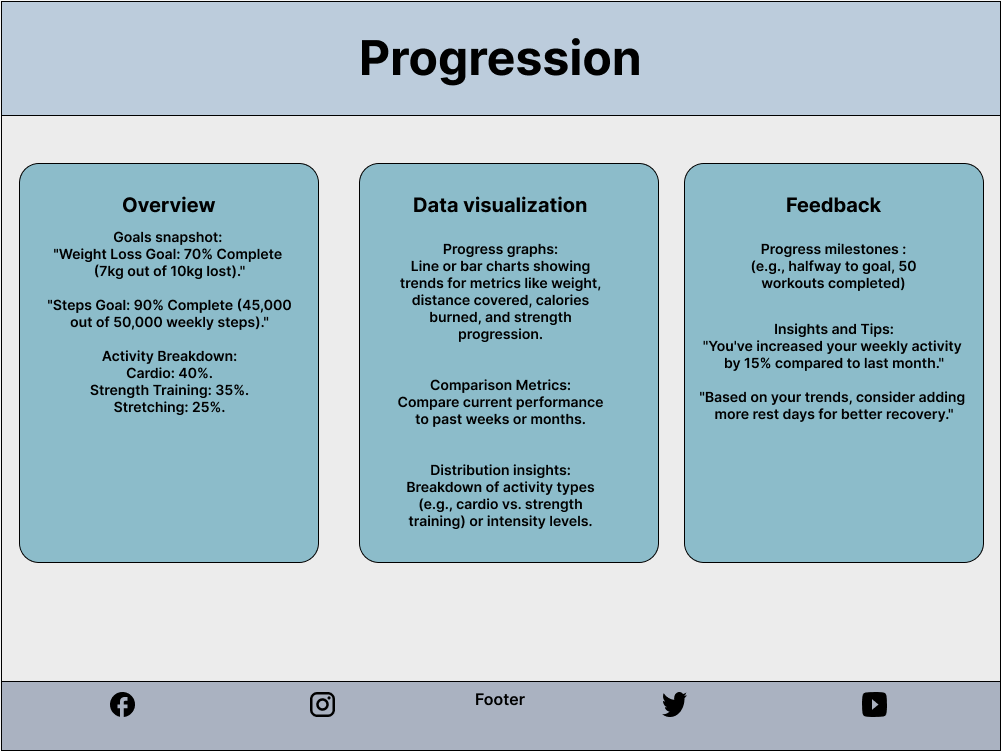
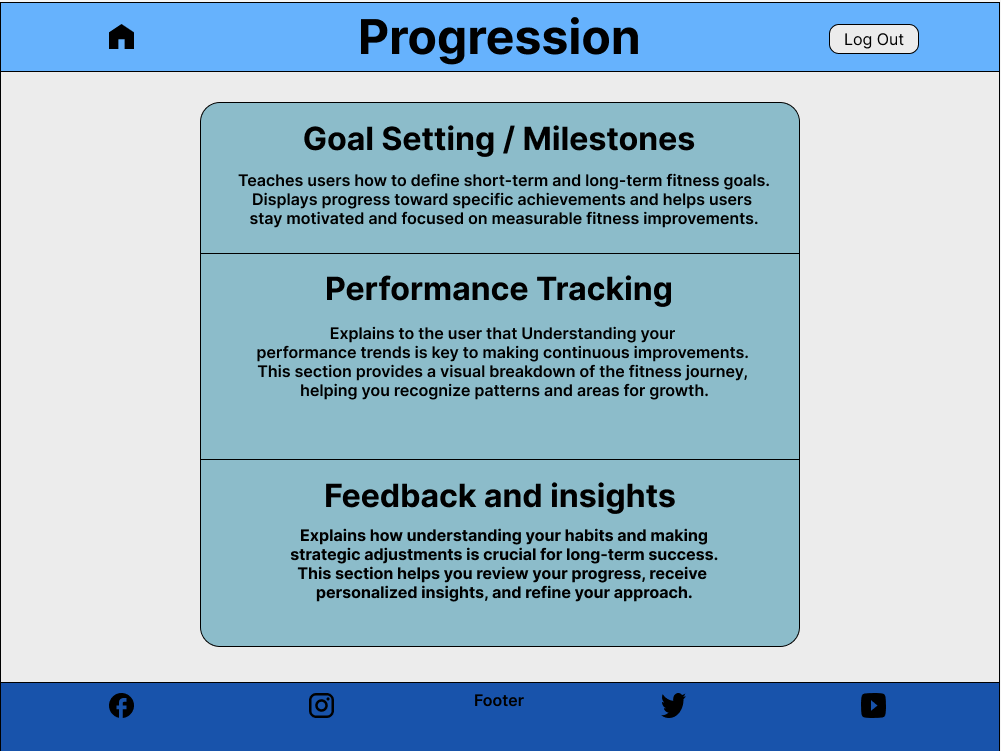
Refactoried Progression UI and documentation:
- Refactored Progression Page layout for
a more structured and intuitive display.

- Consolidated sections into a
streamlined single-page format.

- Replaced previous "Overview,"
"Data Visualization," and "Feedback"
 sections with "Goal Setting / Milestones,"
 "Performance Tracking," and
 "Feedback and Insights."

- Updated wireframes to align with the new design.

- Revised README to reflect the updated page
structure, improving clarity and usability.

- Enhanced descriptions to better educate users
on how to utilize the page effectively.

diff --git a/README.md b/README.md
@@ -468,47 +468,71 @@ The **Activity Page** is a streamlined solution for users who want **clear, orga
 
 ## Progression page
 
-The Progression Page provides users with a detailed and interactive platform to track their fitness journey over time.
-This page focuses on providing meaningful insights and visual representations to help users stay motivated and achieve their fitness goals.
+The **Progression Page** provides users with a structured and intuitive platform to **track their fitness journey** over time. By focusing on **goal setting, performance tracking, and personalized feedback**, this page helps users learn how to stay motivated, recognize progress, and make informed adjustments to their fitness routines.  
 
 ![Progression](<assets/wireframes/progression .png>)
 
-### Features and Sections
+---
 
-#### **1. Overview**
-The Overview section offers a high-level snapshot of the user's current progress, making it easy to stay on track and see the bigger picture.
-- **Goals Snapshot**: Displays progress towards active goals, such as:
-  - *Weight Loss Goal*: "70% Complete (7kg out of 10kg lost)."
-  - *Steps Goal*: "90% Complete (45,000 out of 50,000 weekly steps)."
-- **Activity Breakdown**:
-  - Cardio: 40%.
-  - Strength Training: 35%.
-  - Stretching: 25%.
-- Highlights recent trends and achievements to keep users motivated.
+## **Features and Sections**  
 
-#### **2. Data Visualization**
-This section uses visual tools to display trends and comparisons, helping users analyze their progress effectively.
-- **Progress Graphs**: Line or bar charts illustrating metrics such as:
-  - Weight progression.
-  - Distance covered.
-  - Calories burned.
-  - Strength improvement over time.
-- **Comparison Metrics**: Allows users to compare their performance across different timeframes, such as weekly or monthly trends.
-- **Distribution Insights**: Provides a breakdown of activity types, like cardio versus strength training, to help users adjust their routines for balanced fitness.
+### **1. Goal Setting / Milestones**  
+**Define your fitness goals and stay on track**  
 
-#### **3. Feedback**
-The Feedback section gives users personalized insights and actionable tips based on their performance data.
-- **Progress Milestones**:
-  - Celebrate achievements like "Halfway to goal!" or "50 workouts completed."
-- **Insights and Tips**:
-  - "You've increased your weekly activity by 15% compared to last month."
-  - "Based on your trends, consider adding more rest days for better recovery."
-- Encourages users to reflect on their progress and make informed adjustments to their fitness routines.
+This section helps users how to establish **short-term and long-term fitness goals** while tracking their progress toward meaningful milestones.  
 
-The Progression Page is designed to empower users with a comprehensive view of their fitness journey, 
-combining actionable feedback, visual data, and a clear snapshot of their achievements. 
-By integrating meaningful insights with easy-to-understand visuals, 
-the page keeps users engaged, motivated, and on track to meet their fitness goals.
+- Set **personalized goals** based on your fitness objectives (e.g., weight loss, muscle gain, endurance improvement).  
+- Monitor your **goal completion percentage**, giving you a clear sense of progress.  
+- Celebrate **milestones and achievements**, such as reaching a strength PR, improving running speed, or completing a workout streak.  
+
+📌 **How to Use This Section Effectively:**  
+✔ Clearly define measurable goals (e.g., "Lose 5kg in 3 months" or "Run 10km without stopping").  
+✔ Regularly check your milestone progress to stay motivated.  
+✔ Adjust goals as needed to **continue pushing toward new challenges**.  
+
+---
+
+### **2. Performance Tracking**  
+**Analyze your trends and measure real progress**  
+
+Tracking **performance metrics** over time helps users understand their **strengths, weaknesses, and areas for improvement**.  
+
+- View **progress summaries** that reflect workout consistency, strength development, endurance gains, and more.  
+- Identify **patterns in fitness habits** through structured data representation.  
+- Compare past and present performance to **track improvements** and optimize training.  
+
+📌 **How to Use This Section Effectively:**  
+✔ Regularly review your progress summaries to assess improvements.  
+✔ Use historical performance data to adjust workout intensity and frequency.  
+✔ Identify trends that may indicate the need for recovery or workout variations.  
+
+---
+
+### **3. Feedback and Insights**  
+**Refine your training with meaningful insights**  
+
+This section provides **personalized guidance** based on user activity and progression trends, helping users stay engaged and make strategic adjustments.  
+
+- Gain **data-driven insights** into your progress and performance consistency.  
+- Receive **motivational feedback**, such as reminders to stay consistent, recovery recommendations, or milestone celebrations.  
+- Learn how to **optimize workouts** based on training data, ensuring **continuous improvement**.  
+
+📌 **How to Use This Section Effectively:**  
+✔ Reflect on feedback to make **targeted adjustments** to training plans.  
+✔ Use progress insights to **fine-tune your workout intensity, recovery schedule, and goal-setting approach**.  
+✔ Stay motivated by celebrating milestones and acknowledging improvements in strength, endurance, and consistency.  
+
+---
+
+## **Why the Progression Page is Essential**  
+
+The **Progression Page** serves as a **central hub** for tracking progress, celebrating achievements, and making strategic adjustments to training plans. By combining **goal tracking, performance analysis, and feedback-driven improvements**, users can ensure **consistent growth and long-term success** in their fitness journey.  
+
+✔ **Set clear goals and track milestone achievements.**  
+✔ **Analyze performance trends to optimize training.**  
+✔ **Use feedback to make data-driven adjustments for continuous progress.**  
+
+By regularly engaging with this page, users will gain the knowledge to **stay accountable, make informed training decisions, and maintain long-term motivation** toward achieving their fitness goals. 🚀  
 
 ---
 
